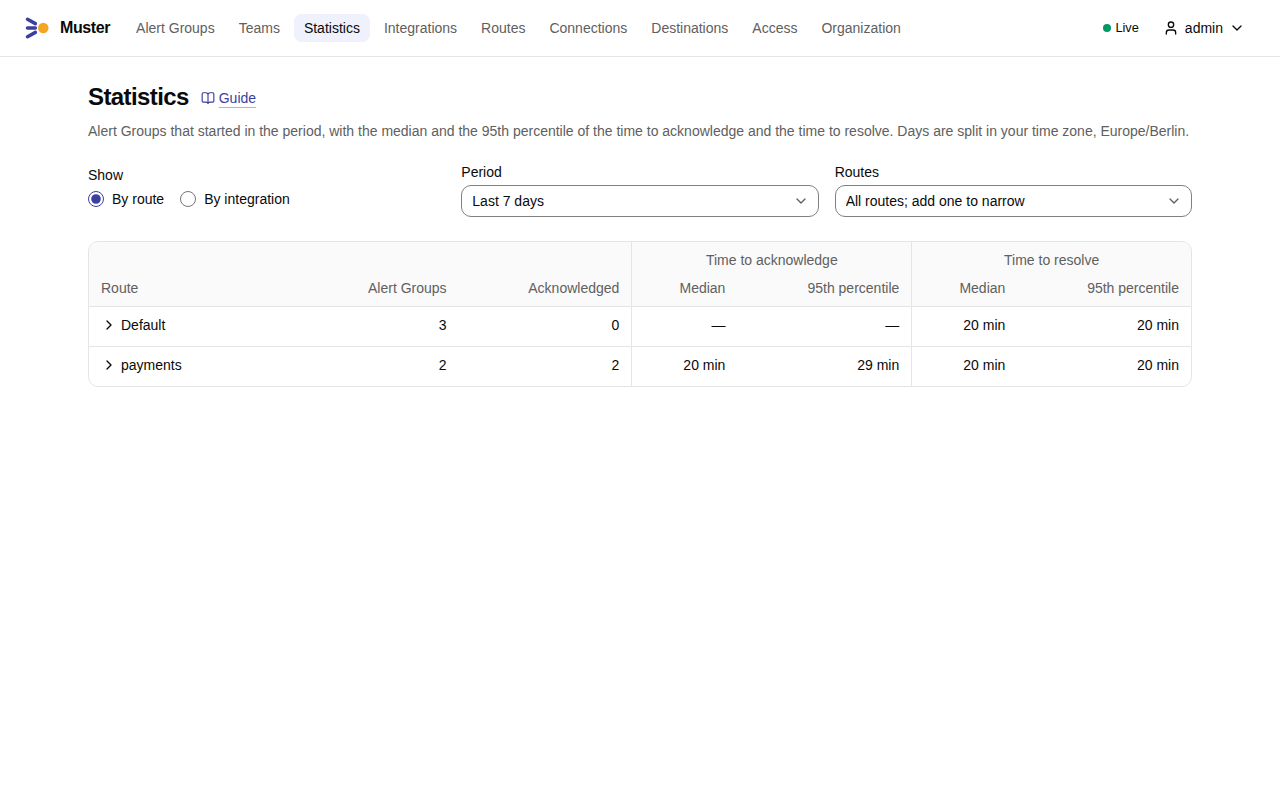
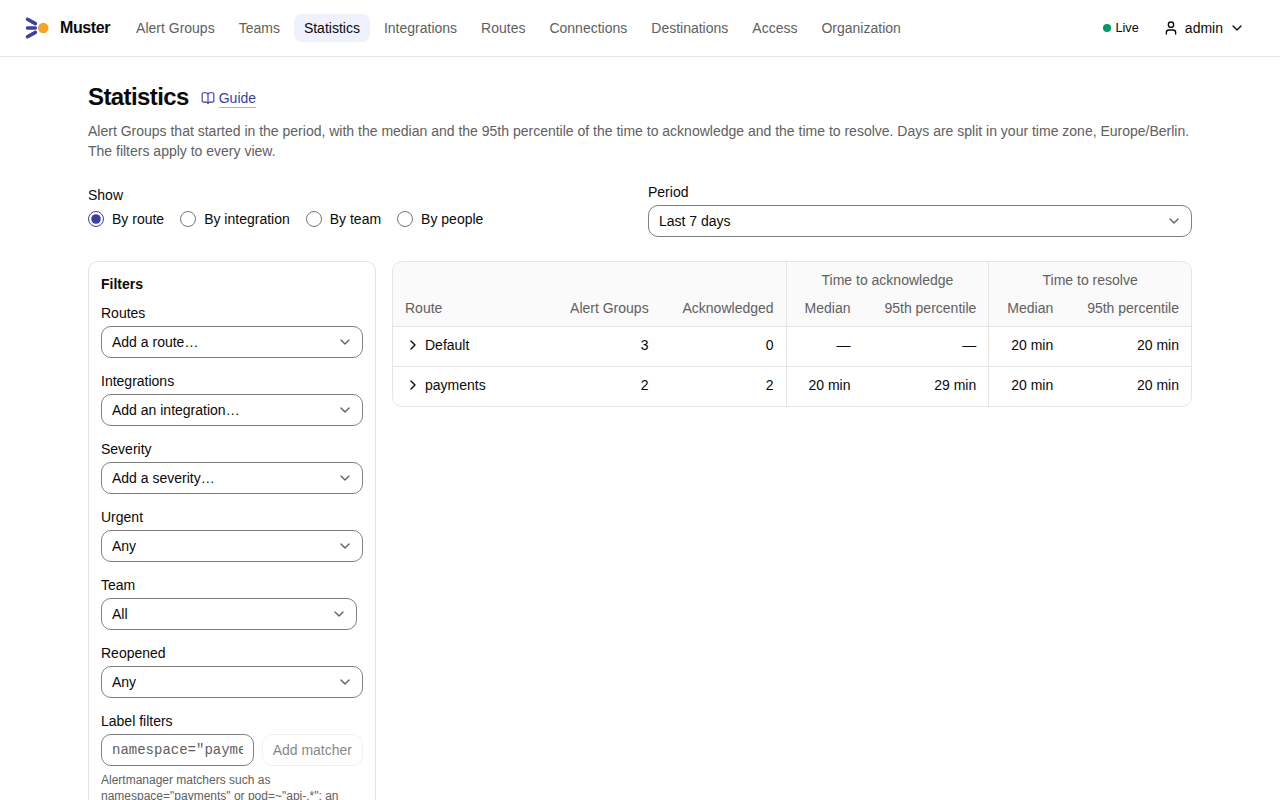
docs: describe statistics by team and by people and the first acknowledgement (#581)

diff --git a/web/e2e/screenshots/alert-groups.clock.spec.ts b/web/e2e/screenshots/alert-groups.clock.spec.ts
@@ -8,7 +8,9 @@
 // Integration "prod-eu", five minutes of the development clock apart, two of them to the Route "payments": HighErrorRate
 // stays firing with a Note, KubePodCrashLooping is acknowledged in the web UI, DiskAlmostFull snoozed until tomorrow
 // 09:00, CertificateExpiring resolved with a Note, and KubeJobFailed acknowledged and then resolved by Alertmanager, so
-// that the Statistics have times to acknowledge and to resolve. After each move of the clock the Admin signs in again.
+// that the Statistics have times to acknowledge and to resolve. Last come four Alert Groups of the product "shop" that
+// alice and bob acknowledge, bob and the Service account terraform resolve, and that the Teams payments and search
+// share: the images of By team and By people filter by that label. After each move of the clock the Admin signs in again.
 // The times the images show keep their distance from the business time at the start, so that the real time the steps
 // take does not move them; the ends of the Snooze presets are shown for that fixed start, a Wednesday 09:40.
 
@@ -17,13 +19,18 @@ import { expect, request, test, type APIRequestContext, type Page } from "@playw
 import {
   adminApi,
   advance,
+  Api,
   APP,
   createRoute,
   devClockOffset,
+  ensureLocalUser,
+  ensureTeam,
   fakeIntegration,
   fam,
   notify,
+  removeNamed,
   signInAdmin,
+  TEAM_SPEC_PASSWORD,
 } from "../support";
 import { capture, cardOf, nav, scrollToTop, type CaptureOptions } from "./capture";
 
@@ -117,6 +124,26 @@ async function send(name: Name, status: "firing" | "resolved" = "firing"): Promi
   await notify(integrationId, name, {
     reason: status === "firing" ? "first notification" : "some alerts resolved",
   });
+}
+
+/** An Alert Group of the product "shop" that C-09's people and Teams act on, with the extra labels. */
+function shop(alertname: string, extra: Record<string, string>) {
+  return {
+    labels: { alertname, product: "shop", severity: "warning", cluster: "prod", ...extra },
+    annotations: { summary: alertname },
+  };
+}
+
+/** Runs a command of the Alert Group as a person. */
+async function run(who: Api | undefined, id: string, command: string): Promise<void> {
+  if (who === undefined) {
+    throw new Error("no signed-in person for the command");
+  }
+  await who.call(
+    "POST",
+    `/api/v1/alert-groups/${id}/${command}`,
+    command === "resolve" ? {} : undefined,
+  );
 }
 
 /** Moves the development clock and signs the Admin in again, as a move can end the session. */
@@ -327,4 +354,110 @@ test("Alert Groups in each status, their commands, the list and the Statistics",
   await expect(days.getByTestId("day-count")).toHaveText("2");
   await scrollToTop(days);
   await shoot(page, GROUPS, "07-statistics-days", { locator: days, padding: 16 });
+
+  // By team and By people: the people and Teams of C-09's examples, over four Alert Groups of the product "shop".
+  const admin = await adminApi();
+  let alice: Api | undefined;
+  let bob: Api | undefined;
+  let terraformToken = "";
+  try {
+    const aliceId = await ensureLocalUser(admin, "alice", "responder");
+    await ensureLocalUser(admin, "bob", "responder");
+    await ensureTeam(
+      admin,
+      "payments",
+      [aliceId],
+      [{ label: "namespace", op: "=", value: "payments" }],
+    );
+    await ensureTeam(admin, "search", [], [{ label: "service", op: "=", value: "search" }]);
+    await removeNamed(admin, "/api/v1/service-accounts", "terraform");
+    const sa = await admin.call<{ id: string }>("POST", "/api/v1/service-accounts", {
+      name: "terraform",
+      role: "responder",
+    });
+    const token = await admin.call<{ value: string }>(
+      "POST",
+      `/api/v1/service-accounts/${sa.id}/tokens`,
+      { name: "docs" },
+    );
+    terraformToken = token.value;
+    alice = await Api.signIn("alice", TEAM_SPEC_PASSWORD);
+    bob = await Api.signIn("bob", TEAM_SPEC_PASSWORD);
+  } finally {
+    await admin.dispose();
+  }
+  const shopAlerts = {
+    latency: shop("CheckoutLatencyHigh", { namespace: "payments" }),
+    queue: shop("PaymentsQueueDeep", { namespace: "payments" }),
+    lag: shop("SearchIndexLag", { service: "search" }),
+    gateway: shop("GatewayErrors", { namespace: "payments", service: "search" }),
+  } as const;
+  const shopSend = async (key: keyof typeof shopAlerts, state: "firing" | "resolved") => {
+    await fam("PUT", `/groups/${key}`, {
+      receiver: INTEGRATION,
+      route: "{}",
+      labels: { alertname: shopAlerts[key].labels.alertname },
+    });
+    await fam("PUT", `/groups/${key}/alerts/a`, { ...shopAlerts[key], status: state });
+    await notify(integrationId, key, {
+      reason: state === "firing" ? "first notification" : "some alerts resolved",
+    });
+  };
+  const shopGroup = async (key: keyof typeof shopAlerts): Promise<string> => {
+    const label = encodeURIComponent(`alertname="${shopAlerts[key].labels.alertname}"`);
+    const body = await get<{ items: { alert_group?: { id: string } }[] }>(
+      `/api/v1/integrations/${integrationId}/alerts?label=${label}`,
+    );
+    return body.items[0]?.alert_group?.id ?? "";
+  };
+  try {
+    const ids: Record<string, string> = {};
+    await shopSend("latency", "firing");
+    ids.latency = await shopGroup("latency");
+    await advance(120);
+    await run(alice, ids.latency, "acknowledge");
+    await shopSend("queue", "firing");
+    ids.queue = await shopGroup("queue");
+    await advance(240);
+    await run(alice, ids.queue, "acknowledge");
+    await shopSend("lag", "firing");
+    ids.lag = await shopGroup("lag");
+    await advance(1800);
+    await run(alice, ids.lag, "acknowledge");
+    await shopSend("gateway", "firing");
+    ids.gateway = await shopGroup("gateway");
+    await advance(600);
+    await run(bob, ids.gateway, "acknowledge");
+    await run(bob, ids.latency, "resolve");
+    await run(bob, ids.queue, "resolve");
+    const res = await fetch(`${APP}/api/v1/alert-groups/${ids.gateway}/resolve`, {
+      method: "POST",
+      headers: { Authorization: `Bearer ${terraformToken}`, "Content-Type": "application/json" },
+      body: "{}",
+    });
+    expect(res.ok, `terraform resolves: ${res.status}`).toBe(true);
+    await shopSend("lag", "resolved");
+  } finally {
+    await alice?.dispose();
+    await bob?.dispose();
+  }
+  await move(page, 1);
+
+  const shopFilter = encodeURIComponent(JSON.stringify(['product="shop"']));
+  await page.goto(`/statistics?by=team&label=${shopFilter}`);
+  const teamRow = (name: string) =>
+    page
+      .getByTestId("statistics-row")
+      .filter({ has: page.getByTestId("statistics-name").getByText(name, { exact: true }) });
+  await expect(teamRow("payments").getByTestId("statistics-count")).toHaveText("3");
+  await expect(teamRow("search").getByTestId("statistics-count")).toHaveText("2");
+  await shoot(page, GROUPS, "08-statistics-by-team", { waitFor: teamRow("payments") });
+
+  await page.goto(`/statistics?by=people&label=${shopFilter}`);
+  const people = page.getByTestId("statistics-people-row");
+  await expect(
+    people.filter({ hasText: "terraform" }).getByTestId("people-service-account"),
+  ).toHaveText("Service account");
+  await expect(people.getByTestId("people-name")).toHaveText(["alice", "bob", "terraform"]);
+  await shoot(page, GROUPS, "09-statistics-by-people", { waitFor: people.first() });
 });

diff --git a/docs/concepts/alert-groups.md b/docs/concepts/alert-groups.md
@@ -223,18 +223,84 @@ Alerts resolve or a person resolves it.
 
 ## Statistics
 
-**Statistics** counts the Alert Groups that started in a period and how fast people took and closed them: for each
-Route or each Integration, the number of Alert Groups and the median and the 95th percentile of the time to acknowledge
-and of the time to resolve. Days are split in your time zone.
+**Statistics** counts the Alert Groups that started in a period and shows how fast people took and closed them. It has
+four views, chosen under **Show**: **By route**, **By integration**, **By team** and **By people**. The first three
+give, for each Route, Integration or Team, the number of Alert Groups and the median and the 95th percentile of the
+time to acknowledge and of the time to resolve. **By people** shows who did the acknowledging and the resolving. Days
+are split in your time zone. Everyone who can read Alert Groups sees every view and filter; Teams limit nothing.
 
-1. Open **Statistics**. Choose the **Period** — **Last 7 days**, **Last 30 days**, **Last 90 days** or **Custom** — and
-   show it **By route** or **By integration**; add Routes or Integrations to narrow it.
+The period counts the Alert Groups that **started** in it, not those that were open during it. Choose the **Period** —
+**Last 7 days**, **Last 30 days**, **Last 90 days** or **Custom**.
+
+1. Open **Statistics**. Choose the **Period** and the view, and add filters to narrow it.
 
     ![Statistics of the last 7 days by route: the Alert Groups and the times to acknowledge and to resolve of the Default route and of payments](../assets/screenshots/concepts/alert-groups/06-statistics.png){ .screenshot }
 
-2. Select a Route or an Integration to see its Alert Groups per day of start, with the median times of each day.
+2. Select a Route, an Integration or a Team to see its Alert Groups per day of start, with the median times of each
+   day (**Per day**).
 
     ![The Alert Groups per day of start of the Route payments](../assets/screenshots/concepts/alert-groups/07-statistics-days.png){ .screenshot }
+
+### Filters
+
+The page takes these filters of the Alert Group list, and they apply to every view and stay when you change the view:
+**Routes**, **Integrations**, **Severity**, **Urgent**, **Team** (a Team or **My Teams**), **Reopened** and **Label
+filters**. It adds one of its own, **Acknowledged first by**: **Anyone**, **Me** or a User; a Service account cannot be
+chosen, because it cannot acknowledge. The page has no status tabs and no search. The view, the period and the filters
+are in the address of the page, so a link shares exactly what you see.
+
+In **By route**, **By integration** and **By team**, the Routes, Integrations or Teams you choose in their own filter
+are also the rows of the table.
+
+### By team
+
+**By team** shows what **By route** shows, for each Team. An Alert Group with several Teams counts for each of them, as
+one with Alerts from several Integrations counts for each Integration; an Alert Group with no Team counts for none. So
+the Teams do not add up to the total. For example, with the Teams payments and search, an Alert Group of both counts
+once for payments and once for search.
+
+The name of a Team opens **By people** for that Team, with the period and the other filters kept.
+
+![Statistics by team: the Teams payments and search, with the Alert Group that both share counted for each](../assets/screenshots/concepts/alert-groups/08-statistics-by-team.png){ .screenshot }
+
+### By people
+
+**By people** is a table with one row for each person who acted on the Alert Groups of the period, with totals over the
+period and no split by day. Click a column to sort by it; by default the rows go by **Acknowledged first**, most first.
+
+**Acknowledged first**
+:   the number of Alert Groups the person was the first to acknowledge.
+
+**Resolved**
+:   the number of Alert Groups the person resolved.
+
+**Median** and **95th percentile** of the **Time to acknowledge**
+:   over the Alert Groups the person acknowledged first.
+
+An Alert Group gives one **Acknowledged first** and one **Resolved**, each to one row; they may be two different people.
+One that nobody acknowledged counts in no **Acknowledged first**, and one the system resolved counts in no
+**Resolved**. Takeovers, Snoozes and Notes are not counted.
+
+A Service account appears with what it resolved, marked **Service account**, and with no times: it cannot acknowledge.
+
+![Statistics by people: alice, bob and the Service account terraform, with what each acknowledged first and resolved and the times to acknowledge](../assets/screenshots/concepts/alert-groups/09-statistics-by-people.png){ .screenshot }
+
+#### Who gets the credit
+
+An Alert Group gives its acknowledgement to whoever acknowledged it **first**. A Takeover, an Unacknowledge, a later
+Acknowledge or a Reopen does not move it. So if alice acknowledges an Alert Group five minutes after it starts and bob
+takes it over an hour later, the Alert Group stays with alice, with five minutes; bob, who took over late, gets no
+credit for it. The acknowledgement counts even when it came after the end of the period, as long as the Alert Group
+started in it.
+
+#### The row Unknown
+
+The row **Unknown** holds the Alert Groups that were acknowledged but whose first acknowledger Muster does not know:
+those acknowledged before 0.2.0 whose Timeline was already removed, wholly or in part (`retention.alert_details`), and
+those first acknowledged while Muster was being updated by a rolling update. It is always the last row, whatever the
+sorting, and it has no **Resolved**. It is there so that **Acknowledged first** adds up over the rows to the number of
+Alert Groups that were acknowledged, which is the **Acknowledged** column of **By route**. The row is not shown
+when it has no Alert Groups, nor when **Acknowledged first by** is set.
 
 ## How long Alert Groups are kept
 
